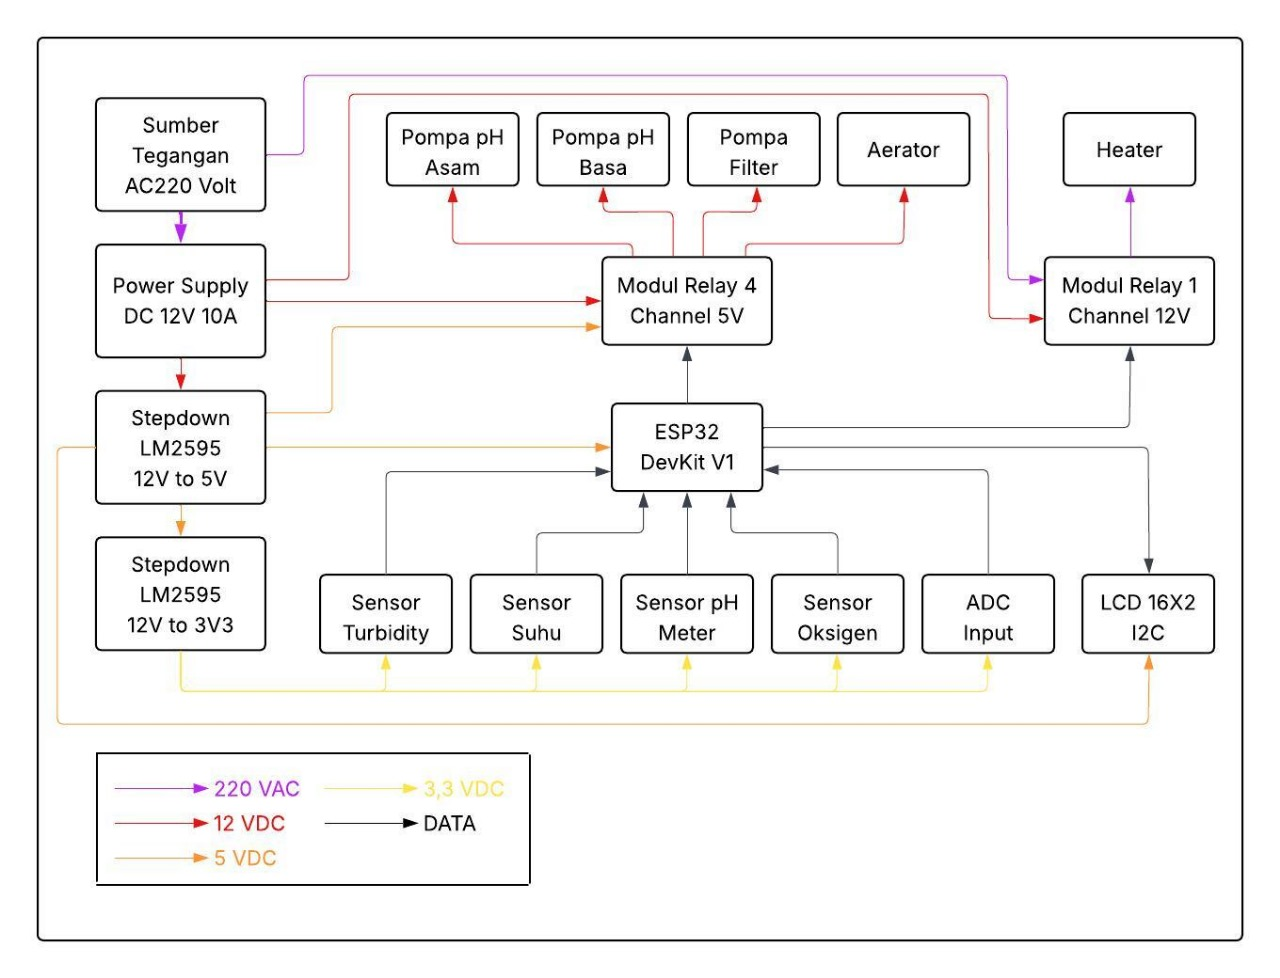
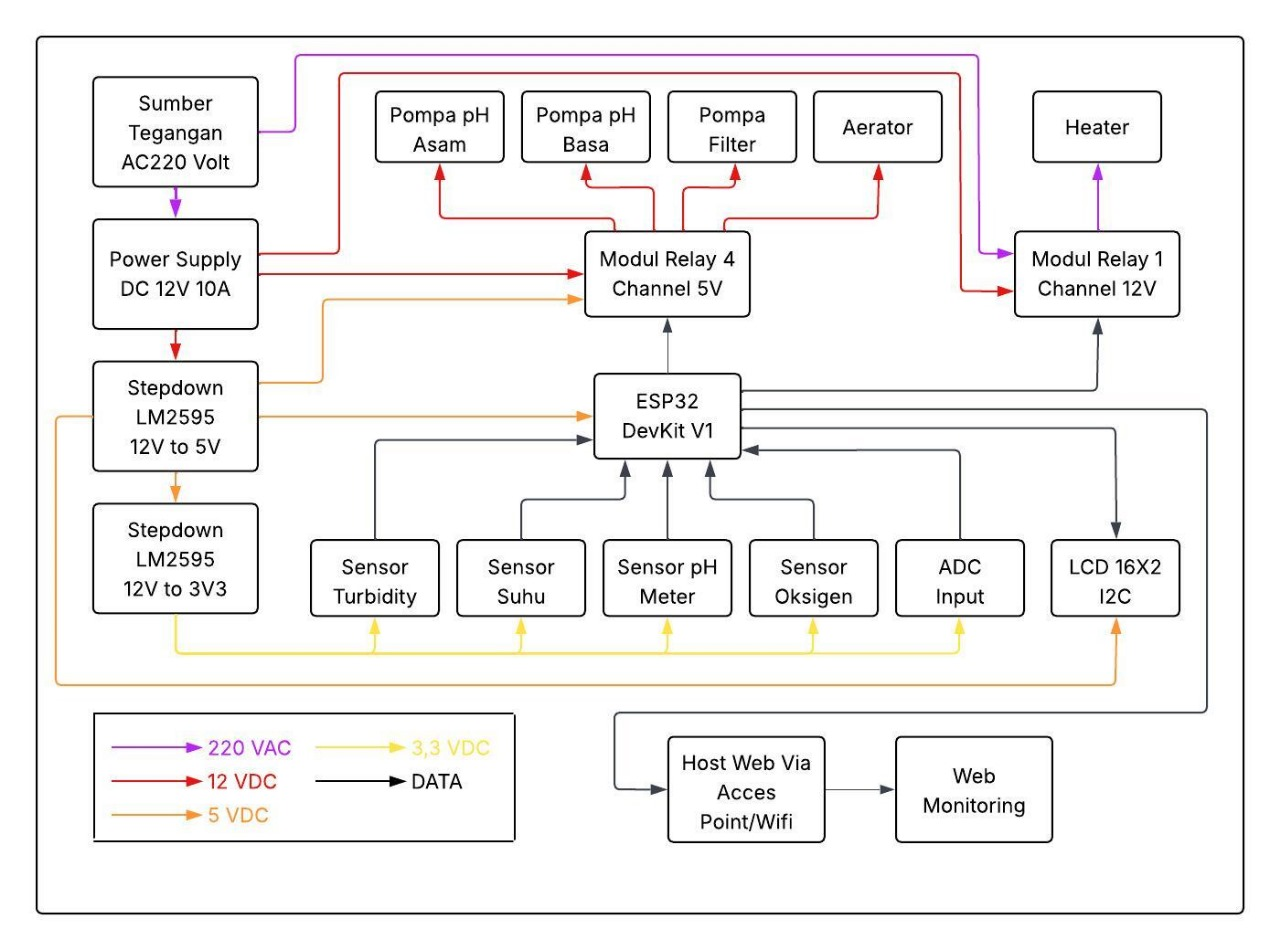
mode Wifi->STA

Changed region(s): [[0.0312, 0.0305, 0.9688, 0.9158], [0.7188, 0.8853, 0.8125, 0.9158], [0.5, 0.8242, 0.5312, 0.8547]]

diff --git a/ESP32WebServer/src/main.cpp b/ESP32WebServer/src/main.cpp
@@ -17,8 +17,8 @@
 // #define GPIO_OUT_W1TS_REG 0x3FF44008
 // #define GPIO_OUT_W1TC_REG 0x3FF4400C
 
-#define MODE_WIFI_OR_AP "ap" // "wifi" atau "ap"
-#define TWO_POINT_CALIBRATION 0
+#define MODE_STA_OR_AP "ap" // "sta" atau "ap"
+#define TWO_POINT_CALIBRATION 0 // 0 = single point, 1 = two point
 // Single point calibration needs to be filled CAL1_V and CAL1_T
 #define CAL1_V (1600) // mv
 #define CAL1_T (25)   // ℃
@@ -47,7 +47,7 @@ const uint16_t DO_Table[41] = {
 
 const long tempRequestInterval = 750; // Minta suhu setiap 750 ms
 
-// jika mode wifi
+// jika mode STA
 const char *ssid = "Pertanian IPB utama";
 const char *password = "pertanian dan pangan";
 
@@ -419,9 +419,9 @@ void handleRelayStatus()
   server.send(200, "application/json", json);
 }
 
-void modeWifi()
+void modeSTA()
 {
-  Serial.println("Inisialisasi WiFi...");
+  Serial.println("Inisialisasi STA...");
   lcd.clear();
   lcd.setCursor(0, 0);
   lcd.print("Inisialisasi");
@@ -470,9 +470,9 @@ void modeAP()
 
 void hostingStart()
 {
-  if (MODE_WIFI_OR_AP == "wifi")
+  if (MODE_STA_OR_AP == "sta")
   {
-    modeWifi();
+    modeSTA();
   }
   else
   {
